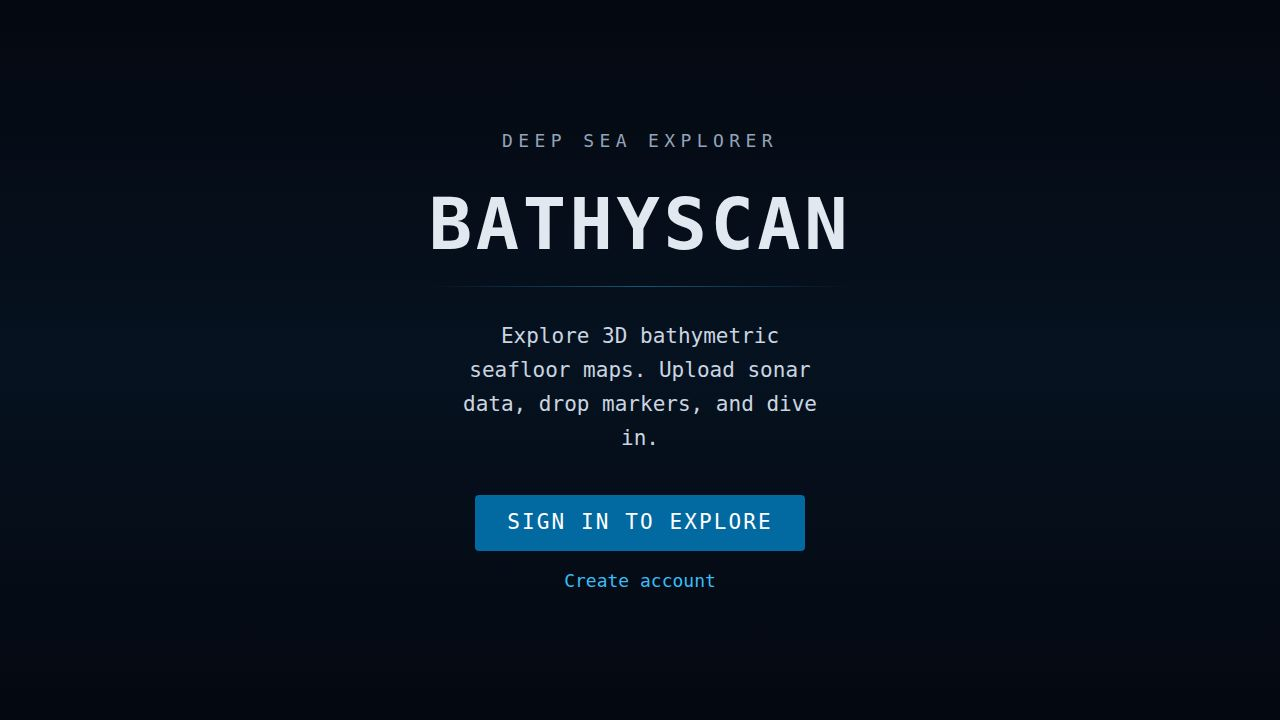
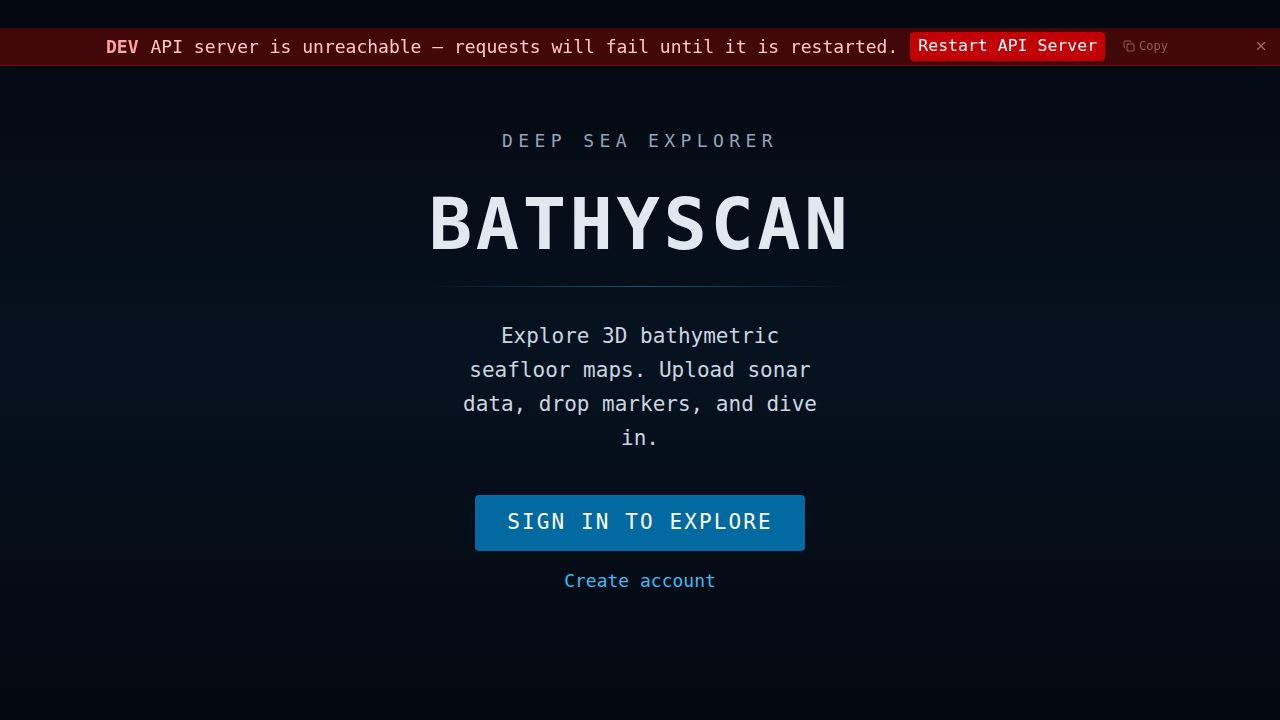
feat: make nodata color user-configurable (land/survey gap tiles)
Task: Make the nodata color user-configurable so users can match their basemap

## What changed

### Settings store (settingsStore.ts)
- Added `nodataColor: string` field (default `#bfbfbf`) to SettingsState,
  DEFAULT_SETTINGS, SettingsActions, SECTION_KEYS.visuals
- Added `setNodataColor` setter
- Bumped SETTINGS_SCHEMA_VERSION 28 → 29 with v28→v29 migration

### terrain.ts
- `applyColormapToVertexColors` gains optional 6th param `nodataColor?`
  Null/non-finite depth vertices are overwritten with it; backward-compatible
  (callers that omit it keep the existing skip behaviour)

### TerrainMesh.tsx
- Subscribes to `nodataColor`, memoizes hex→RGB conversion via THREE.Color
- Passes `nodataColorRgb` to `applyColormapToVertexColors` + adds to deps
  Live repaint without remounting the terrain mesh

### VisualsSection.tsx
- Added `ColorRow` "Land / No-data Color" in the Depth Display card

### API layer
- openapi.yaml: added `nodataColor` field
- api-zod/src/generated/api.ts: constants + field in all three schemas
- api-server DEFAULT_SETTINGS: added `nodataColor`
- settings-coverage-sentinel.test.ts: added `"nodataColor"` to tested fields

### Bug fix (unrelated pre-existing TS error)
- GpsImportDialog.closeLock.test.tsx: removed duplicate object literal keys
  `postMarkers`/`postTrollingPresets` that referenced undefined variables
  `mutateAsyncMarkers`/`mutateAsyncPresets` (TS1117 + TS2304)

## Tests
- All 46 terrain unit tests pass
- settings-coverage-sentinel: 2/2 pass
[…]

Changed region(s): [[0.0, 0.0306, 1.0, 0.0917]]

diff --git a/artifacts/bathyscan/src/lib/terrain.ts b/artifacts/bathyscan/src/lib/terrain.ts
@@ -580,15 +580,23 @@ export function applyColormapToVertexColors(
   maxDepth: number,
   colors: Float32Array,
   toColor: (t: number) => { r: number; g: number; b: number },
+  nodataColor?: { r: number; g: number; b: number },
 ): void {
   const depthRange = (maxDepth - minDepth) || 1;
   for (let i = 0; i < depths.length; i++) {
     const depth = (depths as (number | null)[])[i];
-    // Null, undefined, or non-finite depth = survey gap — preserve the no-data
-    // colour already set by buildTerrainGeometry; do not overwrite it with the
-    // depth colormap. The non-finite check is belt-and-suspenders for any future
-    // data path that skips the server-side NaN → JSON null serialisation.
-    if (depth === null || depth === undefined || !Number.isFinite(depth)) continue;
+    // Null, undefined, or non-finite depth = survey gap — when a nodataColor is
+    // provided, overwrite the vertex with it (live re-paint on settings change).
+    // When no nodataColor is given, preserve whatever colour is already in the
+    // buffer (backward-compatible skip behaviour for callers that don't supply one).
+    if (depth === null || depth === undefined || !Number.isFinite(depth)) {
+      if (nodataColor) {
+        colors[i * 3]     = nodataColor.r;
+        colors[i * 3 + 1] = nodataColor.g;
+        colors[i * 3 + 2] = nodataColor.b;
+      }
+      continue;
+    }
     const t = Math.max(0, Math.min(1, (depth - minDepth) / depthRange));
     const c = toColor(t);
     colors[i * 3]     = c.r;

diff --git a/artifacts/bathyscan/src/lib/settingsStore.ts b/artifacts/bathyscan/src/lib/settingsStore.ts
@@ -60,7 +60,7 @@ import {
   toValidDefaultSpeedTier,
 } from "./settingsGuards";
 
-export const SETTINGS_SCHEMA_VERSION = 28;
+export const SETTINGS_SCHEMA_VERSION = 29;
 
 /** Supported vertical-exaggeration range (matches the Settings slider). */
 export const TERRAIN_EXAGGERATION_MIN = 1;
@@ -229,6 +229,8 @@ export interface SettingsState {
   enableCaustics: boolean;
   fogDensity: number;
   fogColor: string;
+  /** RGB hex colour for no-data (land / survey gap) tiles on the terrain mesh (default light gray). */
+  nodataColor: string;
   ambientLightIntensity: number;
   directionalLightIntensity: number;
   lampIntensity: number;
@@ -574,6 +576,7 @@ interface SettingsActions {
   setEnableCaustics: (v: boolean) => void;
   setFogDensity: (v: number) => void;
   setFogColor: (v: string) => void;
+  setNodataColor: (v: string) => void;
   setAmbientLightIntensity: (v: number) => void;
   setDirectionalLightIntensity: (v: number) => void;
   setLampIntensity: (v: number) => void;
@@ -865,6 +868,7 @@ export const DEFAULT_SETTINGS: SettingsState = {
   enableCaustics: false,
   fogDensity: 0.012,
   fogColor: "#020818",
+  nodataColor: "#bfbfbf",
   ambientLightIntensity: 0.05,
   directionalLightIntensity: 0.35,
   lampIntensity: 2,
@@ -1028,7 +1032,7 @@ export const SECTION_KEYS: Record<SettingsSection, (keyof SettingsState)[]> = {
   ],
   visuals: [
     "qualityPreset", "terrainExaggeration", "enableMarineSnow", "particleDensity",
-    "enableCaustics", "fogDensity", "fogColor", "ambientLightIntensity",
+    "enableCaustics", "fogDensity", "fogColor", "nodataColor", "ambientLightIntensity",
     "directionalLightIntensity", "lampIntensity", "lampRange", "antialiasing",
     "textureQuality", "colormapTheme", "smoothTerrainSpikes",
     "showWaterSurface", "showWaterTempLayer", "showLandmass", "landmassStyle", "satelliteImagery", "colormapUserSet",
@@ -1163,6 +1167,7 @@ export const useSettingsStore = create<SettingsStore>()(
         setEnableCaustics: (v) => set({ enableCaustics: v, qualityPreset: "custom" }),
         setFogDensity: (v) => set({ fogDensity: v, qualityPreset: "custom" }),
         setFogColor: setter("fogColor"),
+        setNodataColor: setter("nodataColor"),
         setAmbientLightIntensity: (v) => set({ ambientLightIntensity: v, qualityPreset: "custom" }),
         setDirectionalLightIntensity: (v) => set({ directionalLightIntensity: v, qualityPreset: "custom" }),
         setLampIntensity: (v) => set({ lampIntensity: v, qualityPreset: "custom" }),
@@ -1682,6 +1687,12 @@ export const useSettingsStore = create<SettingsStore>()(
           if ((rest as Record<string, unknown>).saveFolderExpanded === undefined) {
             migratedSaveFolderExpanded.saveFolderExpanded = DEFAULT_SETTINGS.saveFolderExpanded;
           }
+          // v28 → v29: inject nodataColor default so existing users see the same
+          // light-gray nodata color they had before (now user-configurable).
+          const migratedNodataColor: Partial<SettingsState> = {};
+          if ((rest as Record<string, unknown>).nodataColor === undefined) {
+            migratedNodataColor.nodataColor = DEFAULT_SETTINGS.nodataColor;
+          }
           const mergedState: SettingsState = {
             ...DEFAULT_SETTINGS,
             ...rest,
@@ -1699,6 +1710,7 @@ export const useSettingsStore = create<SettingsStore>()(
             ...migratedFollowResume,
             ...migratedBoatThresholds,
             ...migratedSaveFolderExpanded,
+            ...migratedNodataColor,
             keyBindings: mergedBindings,
             cameraSpawnBehaviour: migratedSpawnBehaviour,
             schemaVersion: SETTINGS_SCHEMA_VERSION,

diff --git a/artifacts/bathyscan/src/components/TerrainMesh.tsx b/artifacts/bathyscan/src/components/TerrainMesh.tsx
@@ -60,6 +60,7 @@ export const TerrainMesh = React.forwardRef<THREE.Mesh, TerrainMeshProps>(
     const colormapTheme = useSettingsStore((s) => s.colormapTheme);
     const brightDaylight = useSettingsStore((s) => s.brightDaylight);
     const colormapUserSet = useSettingsStore((s) => s.colormapUserSet);
+    const nodataColorHex = useSettingsStore((s) => s.nodataColor);
     // In Bright Daylight mode, promote the terrain to grayscale — it provides
     // the strongest depth contrast in sunlight. If the user has explicitly
     // chosen a colormap (colormapUserSet === true) their choice is always
@@ -235,14 +236,19 @@ export const TerrainMesh = React.forwardRef<THREE.Mesh, TerrainMeshProps>(
     const customStops = usePaletteStore((s) => s.customStops);
     const bandColors = usePaletteStore((s) => s.bandColors);
     const bandBoundaries = usePaletteStore((s) => s.bandBoundaries);
+    const nodataColorRgb = React.useMemo(() => {
+      const c = new THREE.Color(nodataColorHex);
+      return { r: c.r, g: c.g, b: c.b };
+    }, [nodataColorHex]);
+
     useEffect(() => {
       const { depths, minDepth, maxDepth } = grid;
       const colorAttr = geometry.getAttribute("color") as THREE.BufferAttribute | undefined;
       if (!colorAttr) return;
       const toColor = getColormap(effectiveColormapTheme);
-      applyColormapToVertexColors(depths, minDepth, maxDepth, colorAttr.array as Float32Array, toColor);
+      applyColormapToVertexColors(depths, minDepth, maxDepth, colorAttr.array as Float32Array, toColor, nodataColorRgb);
       colorAttr.needsUpdate = true;
-    }, [paletteShallow, paletteDeep, customStops, effectiveColormapTheme, grid, geometry, bandColors, bandBoundaries]);
+    }, [paletteShallow, paletteDeep, customStops, effectiveColormapTheme, grid, geometry, bandColors, bandBoundaries, nodataColorRgb]);
 
     // Substrate colour mode no longer recolours the mesh from slope-derived
     // heuristics. The real ShoreZone polygons are drawn as a draped overlay

diff --git a/artifacts/bathyscan/src/pages/settings/VisualsSection.tsx b/artifacts/bathyscan/src/pages/settings/VisualsSection.tsx
@@ -278,6 +278,12 @@ export function VisualsSection() {
           ]}
           sublabel="Terrain surface colour gradient"
         />
+        <ColorRow
+          label="Land / No-data Color"
+          value={s.nodataColor}
+          onChange={s.setNodataColor}
+          sublabel="Color for land and survey gaps — match your basemap background"
+        />
         <ToggleRow
           label="Show Contour Lines"
           value={s.contoursEnabled}

diff --git a/artifacts/bathyscan/src/__tests__/GpsImportDialog.closeLock.test.tsx b/artifacts/bathyscan/src/__tests__/GpsImportDialog.closeLock.test.tsx
@@ -30,8 +30,6 @@ vi.mock("@workspace/api-client-react", () => ({
   getGetMarkersQueryKey: (...a: unknown[]) => ["markers", ...a],
   getGetTrollingPresetsQueryKey: () => ["trollingPresets"],
   MarkerInputType: { custom: "custom" },
-  postMarkers: mutateAsyncMarkers,
-  postTrollingPresets: mutateAsyncPresets,
 }));
 
 vi.mock("@tanstack/react-query", () => ({

diff --git a/artifacts/api-server/src/__tests__/settings-coverage-sentinel.test.ts b/artifacts/api-server/src/__tests__/settings-coverage-sentinel.test.ts
@@ -141,6 +141,7 @@ const SETTINGS_TESTED_FIELDS = new Set<string>([
   "terrainExaggeration",
   "enableMarineSnow",
   "fogColor",
+  "nodataColor",
   "ambientLightIntensity",
   "directionalLightIntensity",
   "lampRange",

diff --git a/artifacts/api-server/src/routes/settings.ts b/artifacts/api-server/src/routes/settings.ts
@@ -114,6 +114,7 @@ export const DEFAULT_SETTINGS = {
   terrainExaggeration: 1,
   enableMarineSnow: true,
   fogColor: "#020818",
+  nodataColor: "#bfbfbf",
   ambientLightIntensity: 0.05,
   directionalLightIntensity: 0.35,
   lampRange: 40,